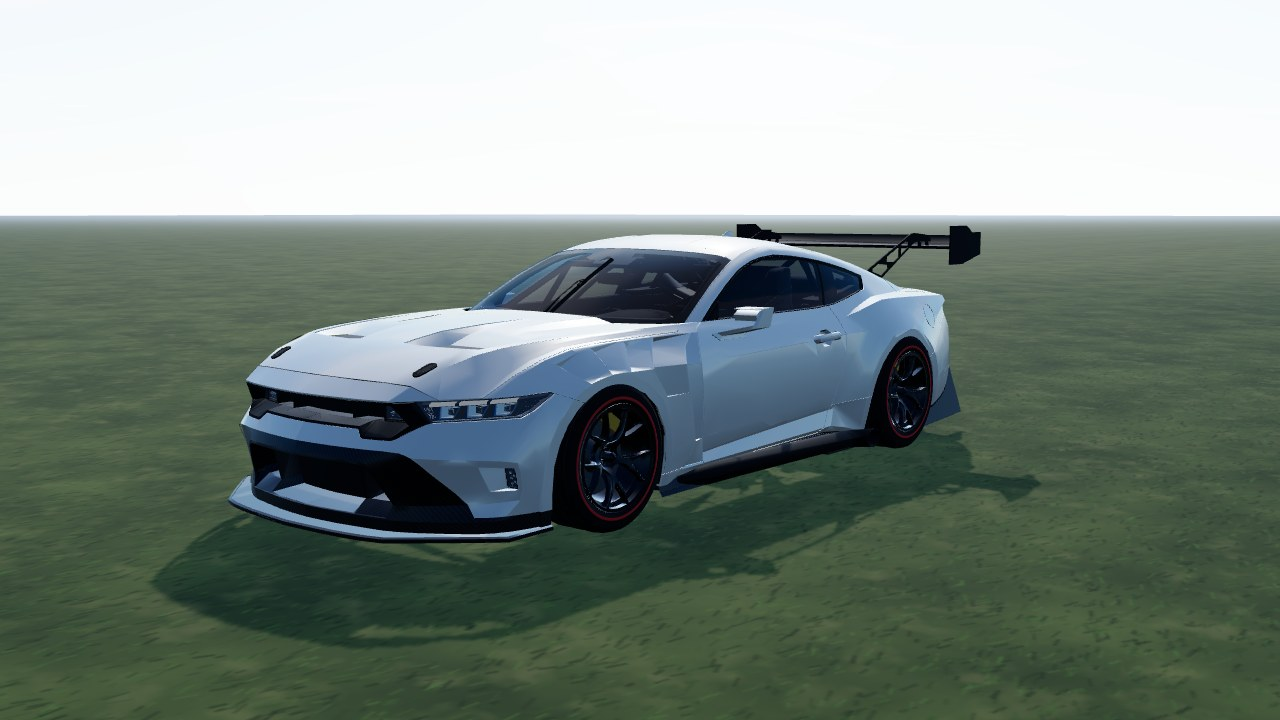
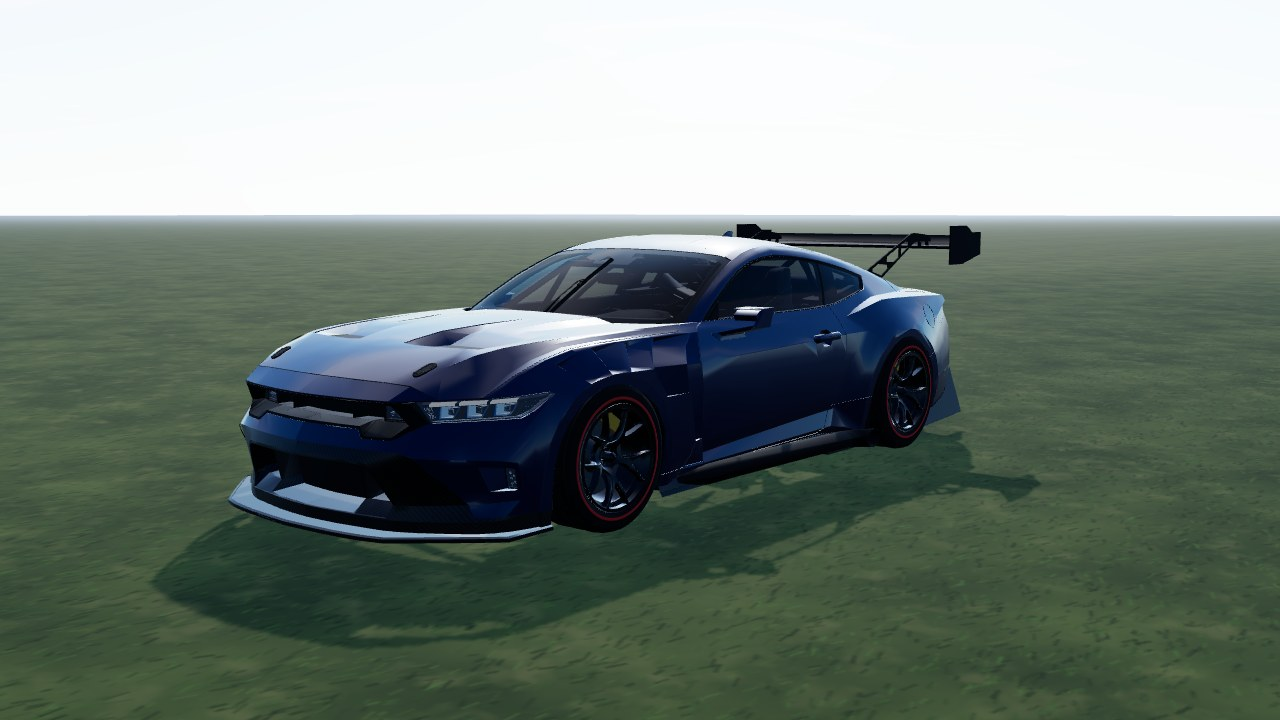
Rally: Mustang GT3 in dark blue

Changed region(s): [[0.1875, 0.3667, 0.75, 0.7333], [0.5625, 0.3361, 0.6562, 0.3972], [0.375, 0.3972, 0.4062, 0.4278]]

diff --git a/src/games/rally/cars/ford-gt3/ford-gt3.ts b/src/games/rally/cars/ford-gt3/ford-gt3.ts
@@ -195,7 +195,7 @@ export const fordGt3: CarDef = {
     ]),
   },
   model: {
-    paint: '#e9e6dd',
+    paint: '#1a2b55',
     // The model's own rim (ford_gt3_wheel.glb), de-cambered and centred on the hub.
     rim: { color: '#3a3d42', spokes: 10, style: 'spoke', caliper: '#c8a040' },
     wheelModel: 'ford_gt3_wheel.glb',

diff --git a/src/games/rally/DETAILS.md b/src/games/rally/DETAILS.md
@@ -156,7 +156,7 @@ underpasses". Tests: `tests/rally/` `bridges`, `city-maps`, `junctions`, `side-r
 | `fiesta`       | Fiesta WRC         | AWD   | World Rally Car from a CC BY model with its cockpit, own rim and livery, test car            |
 | `citroen_c4`   | Citroen C4 WRC     | AWD   | 2007 World Rally Car from a CC BY model with its cockpit, own rim and livery, test car       |
 | `lancer_evo_6` | Lancer EVO VI      | AWD   | 1999-style Lancer from a CC BY model with its cockpit, own rim and livery, test car          |
-| `ford_gt3`     | Ford Mustang GT3   | RWD   | 2024 GT3 racer from a CC BY model kept as is (own cockpit, lamps, rim), flat paint, test car |
+| `ford_gt3`     | Ford Mustang GT3   | RWD   | 2024 GT3 racer from a CC BY model kept as is (own cockpit, lamps, rim), flat dark blue paint, test car |
 
 - A car is `cars/<car>/<car>.ts` (a `CarDef`: physics + model + sound) with its README. A GLB in `public/models/cars/` replaces the
   car's own body (`cars/shared/car-gltf.ts`; credits in `public/models/CREDITS.md`). Imports: rally-car-import skill.

diff --git a/src/games/rally/cars/ford-gt3/README.md b/src/games/rally/cars/ford-gt3/README.md
@@ -6,7 +6,7 @@ parts by material only (no cuts). In game it is **Ford Mustang GT3**: RWD, 1300 
 - **Kept from the model:** the body, wing, splitter and diffuser, the cockpit (seats, cage, wheel, dash) behind see-through glass, the
   3D head / tail lamps and the 10-spoke rim (de-cambered, centred on the hub).
 - **Dropped:** tyres, brake discs and calipers (the game draws its own), the windscreen banner.
-- **Paint (ours):** one flat colour, other seeds recolour it; no logos or lettering.
+- **Paint (ours):** one flat dark blue, other seeds recolour it; no logos or lettering.
 
 ![Front three-quarter](screenshots/front-34.jpg)
 
